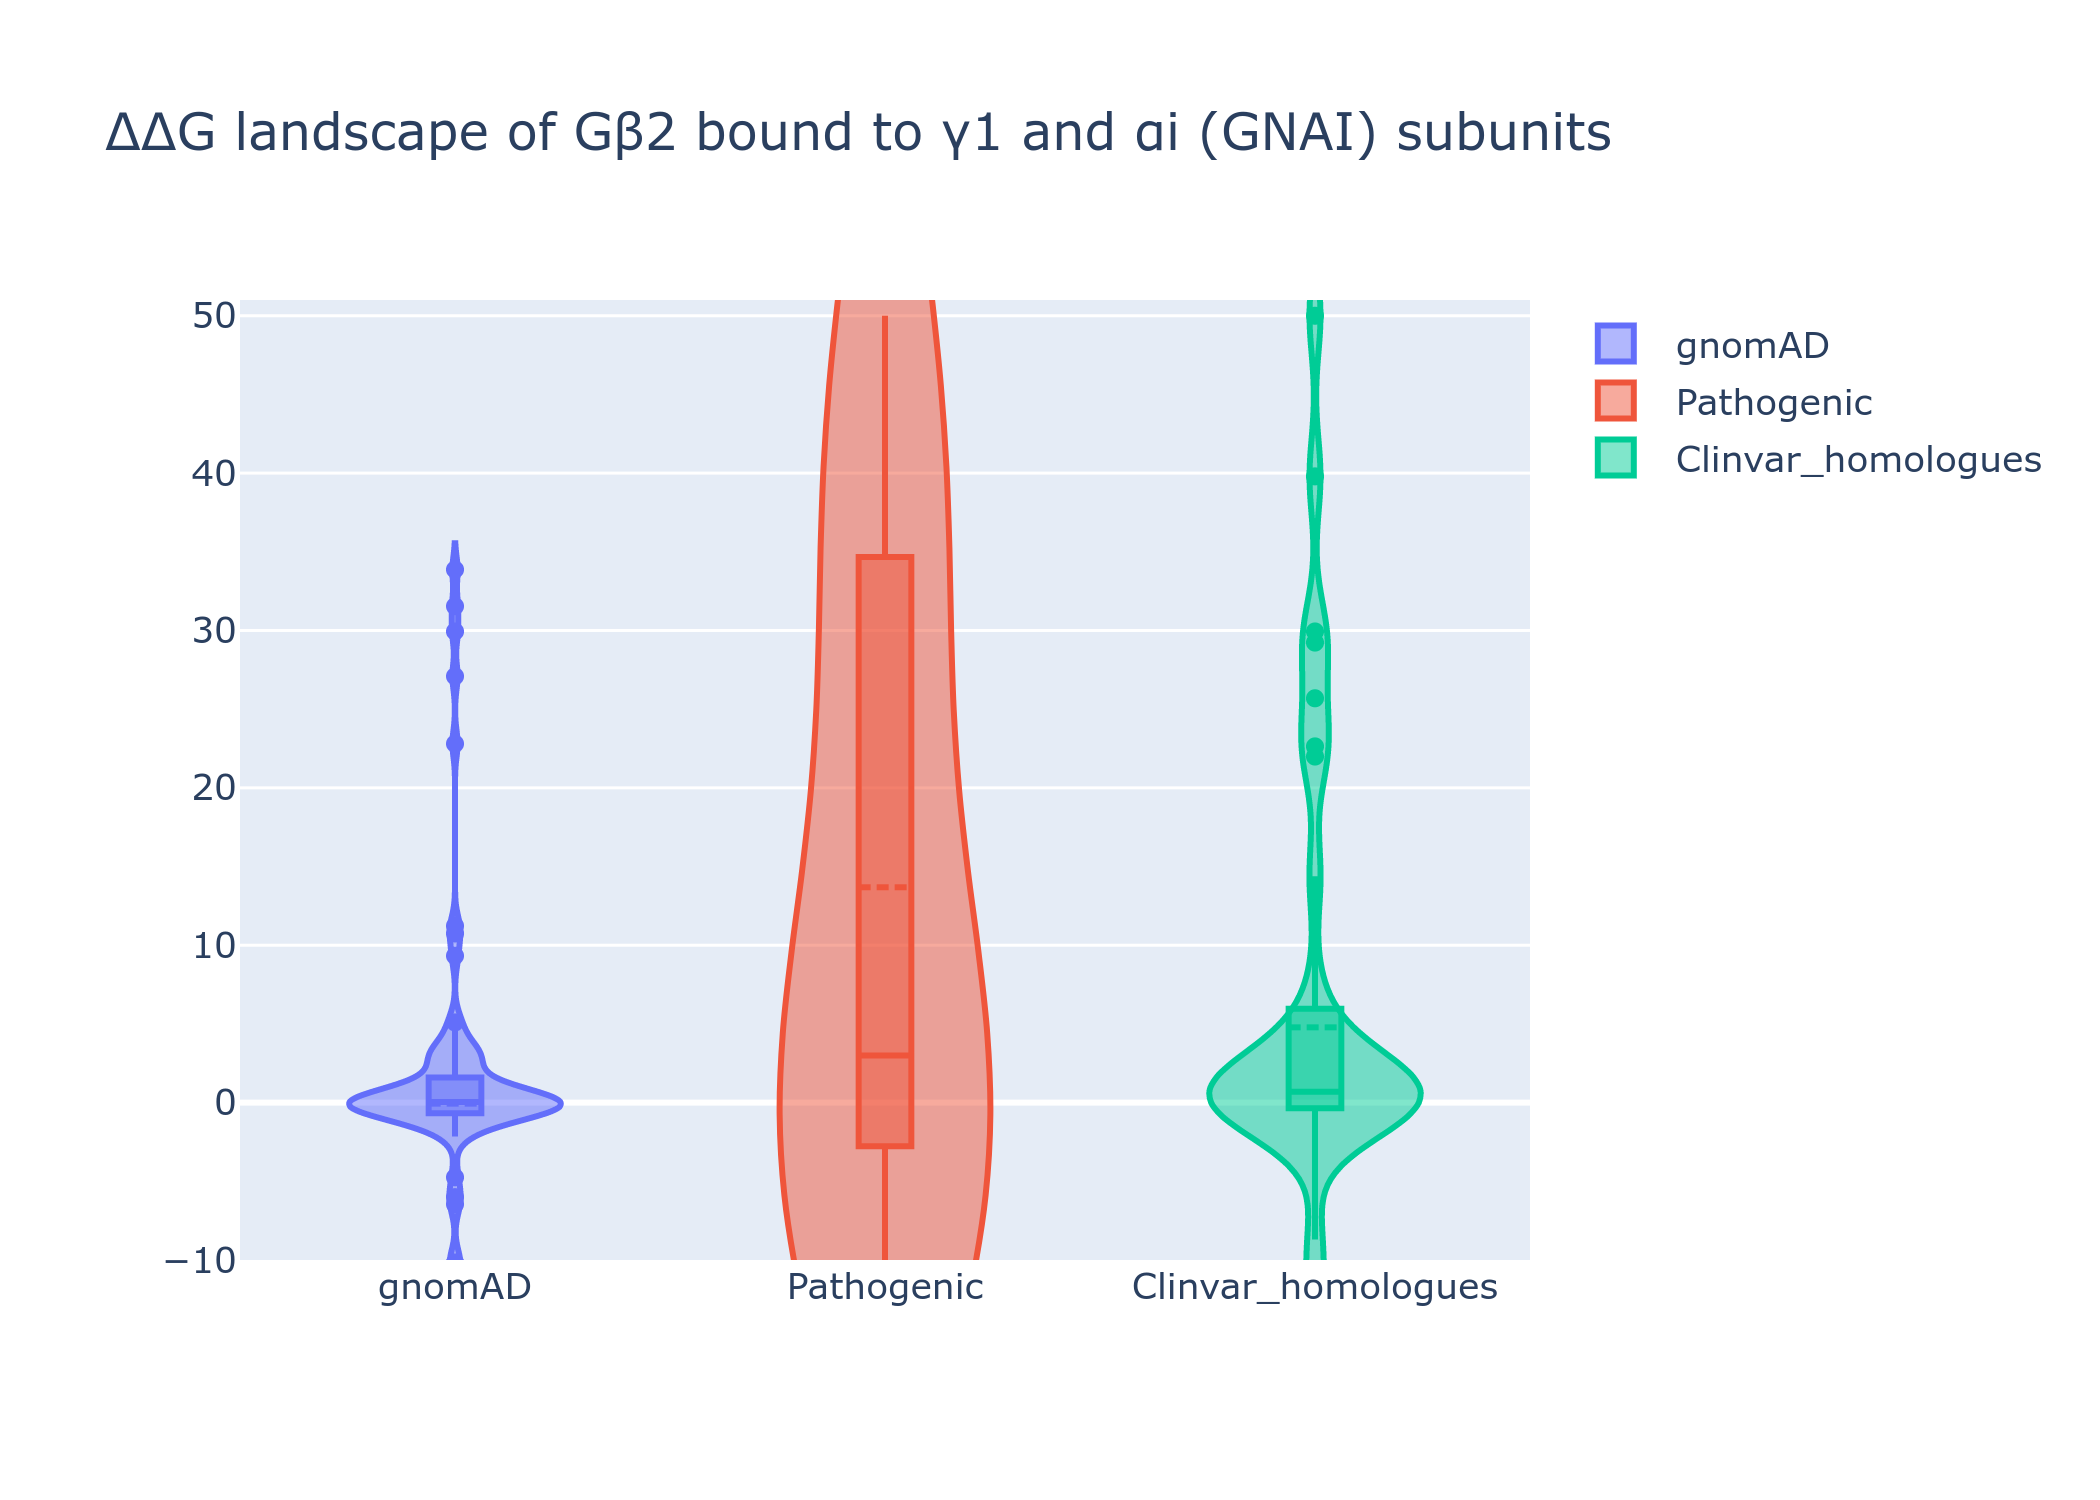
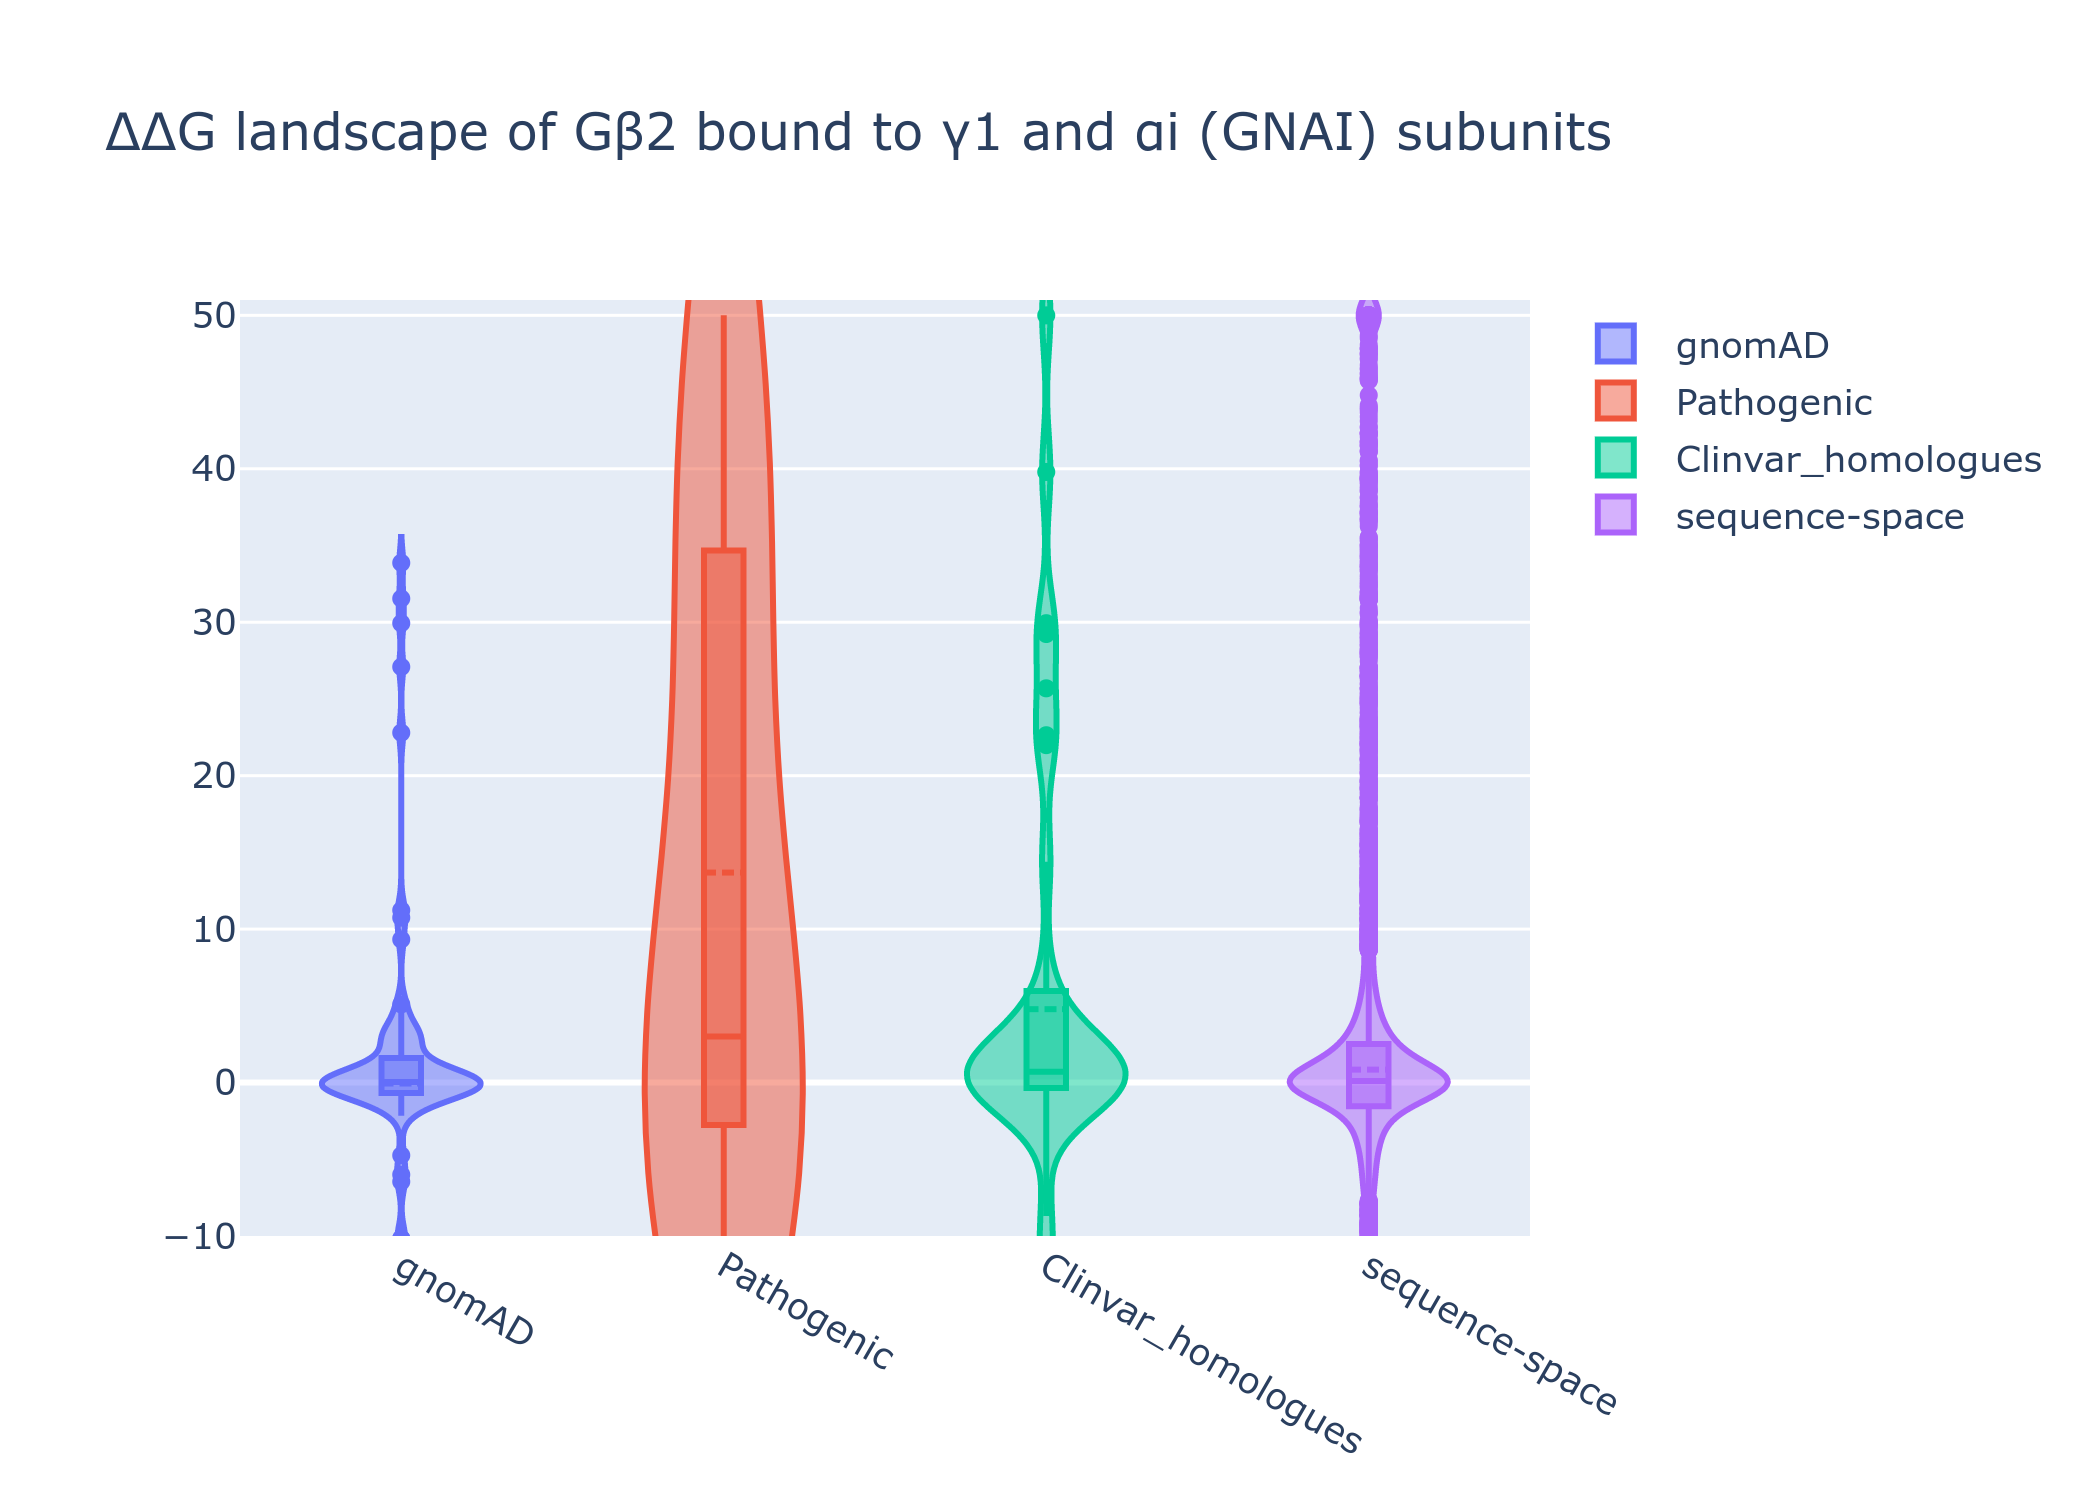
:truck: more data

diff --git a/pmut_scan/violins.py b/pmut_scan/violins.py
@@ -25,7 +25,6 @@ import re
 import plotly.graph_objects as go
 import pandas as pd
 
-
 def read_data(grouping: str) -> pd.DataFrame:
     data = []
     with open('/home/matteo/Desktop/GNB2_part2/models_try-1/' + grouping + '.txt') as fh:  # unpaired
@@ -49,6 +48,7 @@ def read_data(grouping: str) -> pd.DataFrame:
     df = pd.DataFrame(data)
     return df.assign(mutation=df.mutation.apply(lambda v: v[2:]))
 
+#######################################################################################################################
 
 def reg_violins():
     for grouping, title in (('unpaired', 'ΔΔG landscape of Gβ2 (GNB2) bound to Gγ1 (GNG1) subunit only'),
@@ -65,11 +65,16 @@ def reg_violins():
                                     box_visible=True,
                                     meanline_visible=True))
 
+        fig.add_trace(go.Violin(y=df.ddG_limited,
+                                name='sequence-space',
+                                box_visible=True,
+                                meanline_visible=True))
+
         fig.update_layout(title_text=title, yaxis={'range': [-10, 51]})
         fig.write_image('/home/matteo/Desktop/GNB2_part2/violin_' + grouping + '.png', scale=3)
         fig.show()
 
-##############################################################################
+#######################################################################################################################
 
 def get_get_difference():
     ref = read_data('unpaired')
@@ -101,13 +106,16 @@ def diff_violins():
                                     name=groupname,
                                     box_visible=True,
                                     meanline_visible=True))
+        fig.add_trace(go.Violin(y=df.dddG_limited,
+                                name='sequence-space',
+                                box_visible=True,
+                                meanline_visible=True))
 
         fig.update_layout(title_text=title, yaxis={'range': [-10, 51]})
         fig.write_image('/home/matteo/Desktop/GNB2_part2/violin_diff_' + grouping + '.png', scale=3)
         fig.show()
 
+#######################################################################################################################
 
-##############################################################################
-
-diff_violins()
 reg_violins()
+diff_violins()

diff --git a/README.md b/README.md
@@ -63,3 +63,7 @@ See [https://michelanglo.sgc.ox.ac.uk/docs/venus](https://michelanglo.sgc.ox.ac.
 
 Rosetta pmut_scan was performed on three of the models in order to get a mutational landscape. This repacks sidechains but does not alter backbones.
 Consequently, some mutations that are deleterious are neutral when the backbone is allowed to move.
+
+The images of the landscapes can be found in [pmut_scan folder)[pmut_scan].
+
+Additionally two sets of violin plots are present. One is the distribution of scores, while the other is the scores subtracted by the unbound model, making it a crude interface score.

diff --git a/description.md b/description.md
@@ -3,3 +3,5 @@ GNB2 is the β subunit of the G-protein G(I)/G(S)/G(T)
 which together with the GTP/GDP binding α and the γ subunits form the G-protein complex.
 
 ![model_GNB.png](model_GNB.png)
+
+![GNB2_interface_differs.png](GNB2_interface_differs.png)
